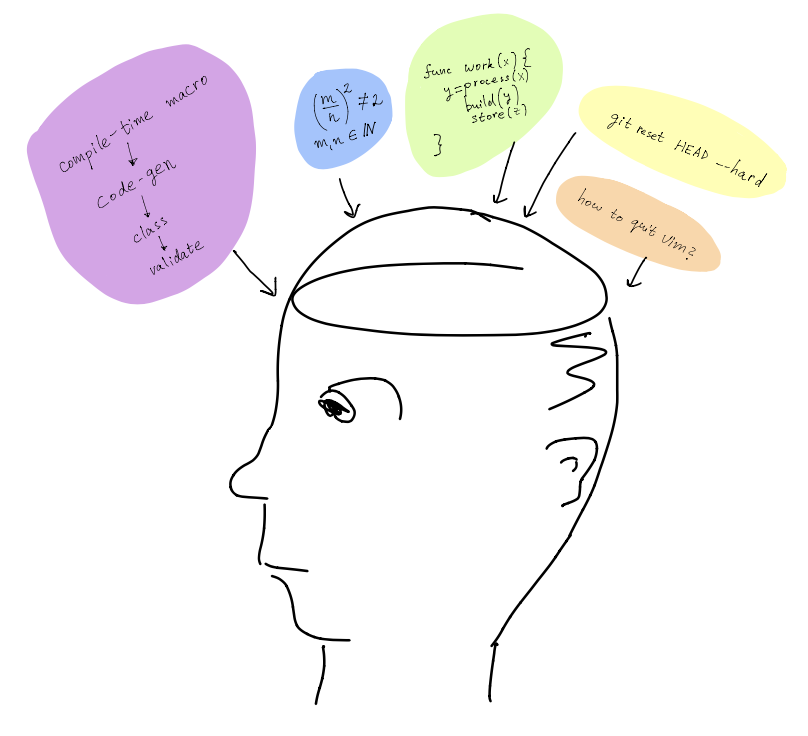
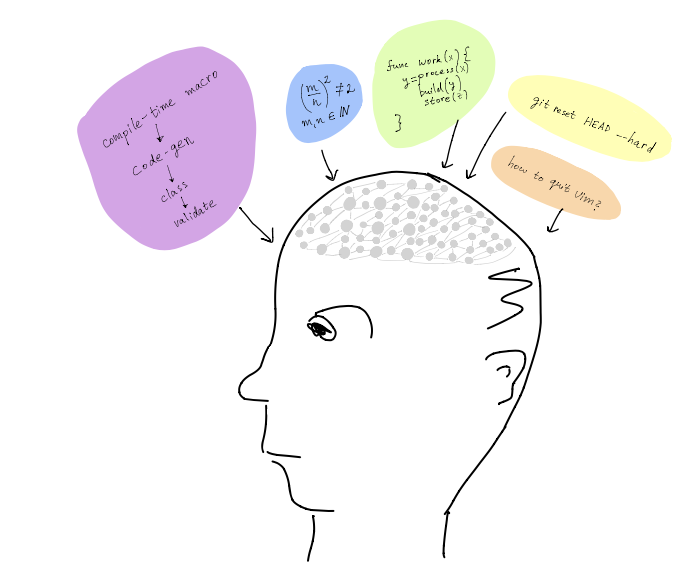
WIP

diff --git a/content/post/train-your-own-neural-network/index.md b/content/post/train-your-own-neural-network/index.md
@@ -80,9 +80,10 @@ How do I discard the local git uncommitted changes via the command-line?
 How do I create a new module in that language?
 <br/>
 What's the 2nd parameter this common-library's function signature expects?
-<br/>
-<br/>
 
+<br/>
+![flashcards-image][flashcards-image]
+<br/>
 ### Patterns:
 Now, let's move on and talk about the more interesting category: _Patterns_.
 As opposed to factual data which is well-defined - _Patterns_ aren't so.
@@ -113,10 +114,11 @@ Prove that the root of 2 is a irrational number.
 <br/>
 Why a _Pattern_? - The classic solution to the above is prove by contradiction. 
 We assume there exists two numbers natural 𝜨 and 𝜧  having no common divisors such that 𝜨 / M = √2
+Eventually will get contradiction to the assumption that 𝜨 and 𝜧  having no common divisors and infer
+that the assumption for the existence of 𝜨 and 𝜧  doesn't hold true.
+([click here for the full proof][root-2-proof]).
 <br/>
-TBD
-
-I see it as a pattern since I can imagine many problems that would require me to use a similar proving technique.
+I see it as a pattern since I can imagine many problems that would require me to use a similar technique as we did with 𝜨 and 𝜧 .
 
 * Chess 
 <br/>
@@ -136,6 +138,7 @@ TBD
 Why a _Pattern_? 
 
 
+![patterns-image][patterns-image]
 <br/>
 Our brain is very good at recognizing patterns. Given an image, it'll detect objects in a fraction of a second. 
 <br/>
@@ -165,9 +168,11 @@ It means we could solve not only more problems but also more elegantly (and fast
 <br/>
 <br/>
 ## How to Train?
+
+![brain-image][brain-image]
+
 Now, how to _TYONT_?
 Again, let's split it again into Factual-data and _Patterns_.
-<br/>
 <br/>
 ### Factual-data Training:
 In order to _TYONT_ with facts, we first need to decide what you kind of information we want to remember. 
@@ -230,8 +235,7 @@ After managing to walk through 1-2 projects, the 3rd one will become easier to g
 We'll compare TBD styles...
 
 TBD: learning from others and get feedback.
-
-<br/><br/>
+<br/>
 This piece attempts to raise the awareness around the _TYONT_ technique.
 </br>
 Its effectiveness doesn't get the place it deserves right now.
@@ -270,6 +274,10 @@ Let's Train Ours Own Neural Network! 😉
 * [SuperMemo.com - Learn fast and forget about forgetting][supermemo]
 * [Execute Program - Learn programming tools fast. Then remember them][executeprogram]
 
+[brain-image]: images/brain.png
+[flashcards-image]: images/flashcards.png
+[patterns-image]: images/patterns.png
+
 [spaced-repetition]: https://en.wikipedia.org/wiki/Spaced_repetition
 [churchill-quotes]: https://www.keepinspiring.me/winston-churchill-quotes/
 [ultralearning-environments]: https://www.scotthyoung.com/blog/2019/01/03/ultralearning-environments/
@@ -279,3 +287,4 @@ Let's Train Ours Own Neural Network! 😉
 [anki]: https://apps.ankiweb.net/ 
 [executeprogram]: https://www.executeprogram.com/
 [chess-com]: http://chess.com/
+[root-2-proof]: https://www.homeschoolmath.net/teaching/proof_square_root_2_irrational.php
